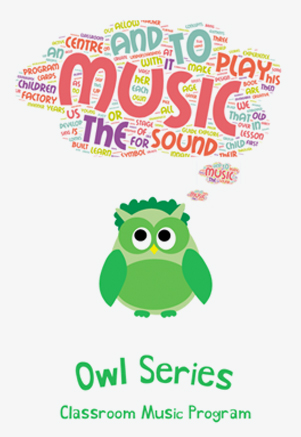
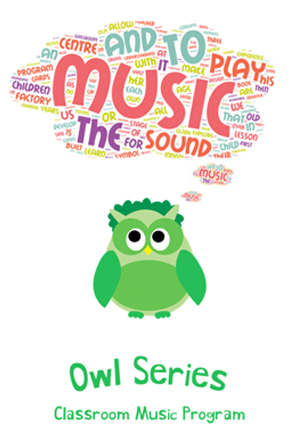
Alpha v1.0
css changes

Changed region(s): [[0.0299, 0.0297, 0.9568, 0.7437], [0.1794, 0.9222, 0.8372, 0.9817], [0.2093, 0.8032, 0.7774, 0.8924]]

diff --git a/Music Factory Teacher/css/main.css b/Music Factory Teacher/css/main.css
@@ -25,7 +25,7 @@
  /*------------------------------------*\
     #SETTINGS
 \*------------------------------------*/
-html{background:#e4e9ed;width:1024px!important;margin:0 auto}
+html{background:#e4e9ed;margin:0 auto}
 body{font:normal 15px/1.5  "museo_sans300" ,sans-serif;color:#12384b;}
 a, a:hover, a:visited, a:active, a:focus{text-decoration:none;outline:none;}
 .nav > li > a:focus, .nav > li > a:hover {background-color:transparent}
@@ -100,10 +100,11 @@ a, a:hover, a:visited, a:active, a:focus{text-decoration:none;outline:none;}
 .km-button.km-state-active{background-color:transparent;color:transparent}
 .km-listview-link::after {display:none}
 .km-widget.km-button{background:none;border:none;color:#000}
-.km-widget .km-state-active {background-color:transparent}
+.km-widget.km-state-active {background-color:transparent}
 .km-button.km-state-active:after, .km-buttongroup .km-state-active:after {display:none}
 .km-content p, .km-content h1, .km-content h2, .km-content h3, .km-content h4, .km-content h5, .km-content h6{margin:0}
 .km-ios7 li.km-state-active .km-listview-link{background:transparent}
+.km-android input[type=password], .km-android input[type=search], .km-android input[type=number], .km-android input[type=tel], .km-android input[type=url], .km-android input[type=email], .km-android input[type=text]:not(.k-input), .km-root .km-android textarea{outline-width:0;outline-offset:0;border-width:0}
 /**HEADINGS**/
 .km-content h1{font: 600 30px/1.2 "museo_slab700";color:#282828;margin:0}
 .km-content h2{font: 700 20px/1.2 "museo_slab700";color:#282828;margin:0}
@@ -133,6 +134,7 @@ a.bttn-signout.km-button span{line-height:22px}
 .marg-b-10{margin-bottom:10px}
 .marg-b-15{margin-bottom:15px}
 .marg-b-20{margin-bottom:20px}
+.marg-t-150{margin-top:150px}
 .marg-t-200{margin-top:200px}
 /**ICONS**/
 .icon-bulb{background:url(../img/icon-bulb.png) left center no-repeat;width:25px;min-height:25px;display:inline-block}
@@ -146,21 +148,15 @@ a.bttn-signout.km-button span{line-height:22px}
 .icon-left{background:url(../img/icon-left.png);width:6px;height:11px;display:inline-block;margin-right:5px}
 .icon-right{background:url(../img/icon-right.png);width:6px;height:11px;display:inline-block;margin-left:5px}
 .icon-img{margin-top:-5px}
-/**PAGINATION**/
-
-/**MIXINS**/
-
-
  /*------------------------------------*\
     #COMPONENTS
 \*------------------------------------*/
 /**====HEADER FOOTER====**/
 .book-main-wrap-header.km-footer{background:url(../img/bg-header.jpg);height:50px;padding:0 5px 0}
 .book-main-wrap-header.km-footer strong, .book-main-wrap-header.km-footer a{font-size:12px;color:#7d878c;font-weight:normal}
-.book-main-wrap-header.km-footer a{line-height:40px}
 .book-main-wrap-header strong{font-size:16px;line-height:50px;float:right;padding-right:5px}
 .book-main-wrap-header a{font-size:16px;line-height:30px;}
-.book-main-wrap-footer.km-header{background:url(../img/bg-header.jpg);height:50px;padding-top:10px;}
+.book-main-wrap-footer.km-header{background:url(../img/bg-header.jpg);height:50px;padding-top:5px;}
 .km-button.bttn-tableofcontents{width:170px;border-right:1px solid #7d878c;border-radius:0;color:#7d878c;padding-left:5px}
 .bttn-tableofcontents .glyphicon{margin-right:10px}
 .bttn-prev span, .bttn-next span{color:#39464c}
@@ -168,8 +164,8 @@ a.bttn-prev.km-button, a.bttn-next.km-button{color:#7d878c}
 /**====LOGIN====**/
 #login.container-fluid{padding:0;}
 #login .km-content{background:url(../img/bg-login.png) bottom center no-repeat #e4e9ed!important}
-#login h2{font-size:30px;color:#76c4e0;float:left;margin-left:0;margin-right:130px}
-a.login-password{font-size:12px;color:#8d8d8d;float:left}
+#login h2{font-size:30px;color:#76c4e0;float:left;margin-left:0;margin-right:85px}
+a.login-password{font-size:12px;color:#8d8d8d;float:left;line-height:40px}
 #login input{display:block;margin-bottom:10px;border:0;height:40px;width:320px;padding:10px;background-clip:border-box}
 #login input[type=text]{background:url(../img/icon-username.png) 300px center no-repeat #fff;padding-right:25px}
 #login input[type=text]:focus{background:url(../img/icon-username-active.png) 300px center no-repeat #fff;border:1px solid #ff914e;}
@@ -185,7 +181,7 @@ a.login-password{font-size:12px;color:#8d8d8d;float:left}
 .profile-header{text-align:center;background:url(../img/line.png) bottom center no-repeat;padding-bottom:20px;margin-bottom:10px}
 .profile-header strong{font:normal 14px "museo_sans500";color:#b0e6e2;margin-bottom:5px}
 .profile-header h2{font:normal 20px "museo_sans700";color:#eafcfb;}
-.main-aside nav ul{margin:0 -15px}
+.main-aside nav ul{margin:0 -30px}
 .main-aside nav li{border-width:0px!important}
 .main-aside nav li.booklist-activelink{background:#69ada9;}
 .main-aside nav li.booklist-activelink a{color:#2f716d!important}
@@ -211,8 +207,9 @@ box-shadow: 5px 5px 10px 0px rgba(212,212,212,1);}
 /*drawer*/
 .bookdetails-drawer .km-content{background:#7ebbb6!important}
 .bookdetails-drawer-head h1{background:#93c8c5;font-size:16px;margin:0;padding:15px;color:#296b68}
-.bookdetails-drawer .glyphicon{font-size:12px;color:#fff;position:absolute;top:10px;right:0}
+.bookdetails-drawer .glyphicon{font-size:12px;color:#fff;position:absolute!important;top:10px;right:0}
 .bookdetails-drawer .glyphicon.glyphicon-triangle-top{color:#2e716d}
+.bookdetails-drawer-firstnav  {margin:0 -20px;height:458px}
 .bookdetails-drawer-firstnav ul {display:none}
 .bookdetails-drawer-firstnav ul li{margin-bottom:10px;}
 .bookdetails-drawer-firstnav{max-height:500px;overflow-y:auto}
@@ -265,9 +262,9 @@ ul.bookdetails-tabs{padding-left:0}
 .lesson-complete-star{margin-left:20px}
 .lesson-complete-star p:before{content:"\2217";font-size:8px;position:relative;top:-5px}
 /*cover*/
-#bookcover{background:#fff;padding:20px}
+#bookcover{background:#94d457;padding:20px}
 .detailfull-wrap{background:#fff;}
-.detailfull-wrap img{margin-left:auto;margin-right:auto;padding-top:50px;display:block;}
+.detailfull-wrap img{margin-left:auto;margin-right:auto;padding-top:0;display:block;}
 /*preface*/
 #preface h1{color:#87bcb0}
 #preface h2{color:#e2636b}
@@ -313,11 +310,11 @@ span.tooltiparrow{background:url(../img/tooltip-arrow.png) no-repeat;position:ab
 .audio-block strong{text-align:center;display:block;font-size:15px;margin-bottom:10px}
 .audio-block span{font-weight:normal}
 .audio-block audio{display:block;margin:0 auto}
-/**====SMALL DEVICE AND PORTRAIT==
+/**====SMALL DEVICE AND PORTRAIT===**/
 .km-content, .km-android, .km-vertical{position:relative}
 .km-vertical:before{content:"";position:absolute;top:0;left:0;width:100%;height:100%;z-index:1;background:url(../img/icon-orientation.png) center center no-repeat #e4e9ed!important;}
 .km-phone .km-content:before, .km-phone .km-android:before{content:"";position:absolute;top:0;left:0;width:100%;height:100%;z-index:1;background:url(../img/icon-phone.png) center center no-repeat #e4e9ed!important;}
-=**/
+
 
 
 

diff --git a/Music Factory Teacher/index.html b/Music Factory Teacher/index.html
@@ -23,11 +23,11 @@
 <body>
 
 <div class="container-fluid" id="login" data-role="view" data-layout="default" data-transition="overlay:down">
-  <div class="row marg-t-200 row-margin-null">
-    <div class="col-xs-6">
+  <div class="row marg-t-150 row-margin-null">
+    <div class="col-xs-5 col-xs-offset-1">
       <div class="clearfix marg-b-10">
         <h2>Sign in</h2>
-        <a href="#" title="" class="login-password">Forgot your password?</a>
+        <a class="login-password">Forgot your password?</a>
       </div>
       <form>
         <input type="text" placeholder="Username"/>
